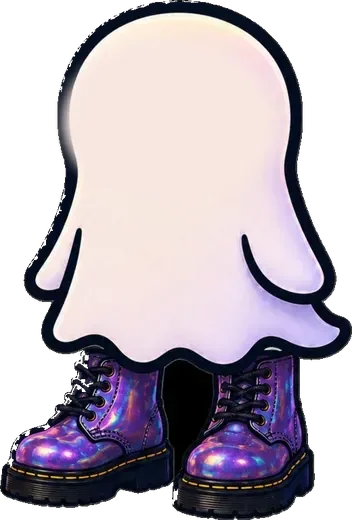
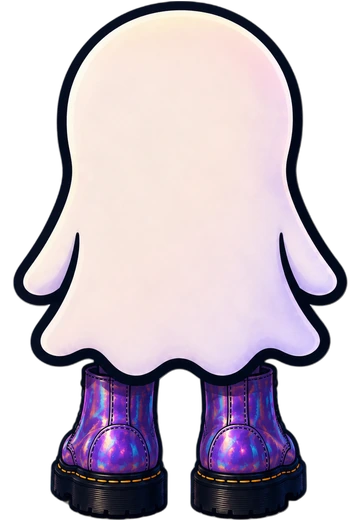
Use hand-drawn back-view art for the turnaround
Replaces the derived/faked heel boots with the real back-facing art
(faceless Moots + true heel Doc Martens, plain + dressed). The "facing
away" view now draws this as a single piece instead of compositing a
faceless body with smudged front boots — the boots actually point away.

- Reframed both back images to 352x520, registered to the front sprites
  by head-top / boot-bottom / centre so there's zero hop when he turns.
- facingBack now blits the whole back image; the layered striding-feet
  path is front-only. Dropped the now-unused back-body + heel-boot
  layers (6 assets) and trimmed layerSet's ready-gate accordingly.

Verified via real rasterization (8 directions + front/back close-ups,
both outfits, feet aligned) and the full render/bgm/escape/annex suite.

Claude-Session: https://claude.ai/code/session_014iGw1K9AYbNnFutYAGK4DG

Changed region(s): [[0.0, 0.0, 1.0, 1.0]]

diff --git a/src/render/sprites.js b/src/render/sprites.js
@@ -16,13 +16,9 @@ export const bossCards = {}; // bossId -> {img, ready}
 // sticker art. Falls back to the whole-sprite above until every layer has loaded.
 function layerSet() {
   return {
-    body: { img: null, ready: false }, back: { img: null, ready: false },
+    body: { img: null, ready: false },
     bootL: { img: null, ready: false }, bootR: { img: null, ready: false },
-    bootLBack: { img: null, ready: false }, bootRBack: { img: null, ready: false }, // heel view
-    get ready() {
-      return this.body.ready && this.back.ready && this.bootL.ready && this.bootR.ready
-        && this.bootLBack.ready && this.bootRBack.ready;
-    },
+    get ready() { return this.body.ready && this.bootL.ready && this.bootR.ready; },
   };
 }
 export const plainLayers = layerSet();
@@ -47,17 +43,11 @@ export function loadSprites() {
   loadInto(mootsDressed, './assets/moots-dressed.webp');
   loadInto(mootsDressedBack, './assets/moots-dressed-back.webp');
   loadInto(plainLayers.body, './assets/moots-body.webp');
-  loadInto(plainLayers.back, './assets/moots-back-body.webp');
   loadInto(plainLayers.bootL, './assets/moots-boot-l.webp');
   loadInto(plainLayers.bootR, './assets/moots-boot-r.webp');
-  loadInto(plainLayers.bootLBack, './assets/moots-boot-l-back.webp');
-  loadInto(plainLayers.bootRBack, './assets/moots-boot-r-back.webp');
   loadInto(dressedLayers.body, './assets/moots-dressed-body.webp');
-  loadInto(dressedLayers.back, './assets/moots-dressed-back-body.webp');
   loadInto(dressedLayers.bootL, './assets/moots-dressed-boot-l.webp');
   loadInto(dressedLayers.bootR, './assets/moots-dressed-boot-r.webp');
-  loadInto(dressedLayers.bootLBack, './assets/moots-dressed-boot-l-back.webp');
-  loadInto(dressedLayers.bootRBack, './assets/moots-dressed-boot-r-back.webp');
   for (const [id, file] of Object.entries({
     falseMoon: 'false-moon-card', warden: 'warden-card', spiggot: 'spiggot-card', archon: 'archon-card',
   })) {
@@ -281,15 +271,17 @@ export function drawPlayerBody(ctx, x, y, face, pal, alpha = 1, ghost = false, s
     if (gunBehind) drawEmitter(ctx, face, pal);
     ctx.save();
     ctx.scale(sx * flip, (1 + 0.035 * Math.sin(spinPhase * 2)) * stretchY / stepSquash);
-    if (useLayers) {
-      // Striding feet: each boot rocks around its ankle in opposite phase, planted (no lift)
-      // so the body's hem always covers the tops. Amplitude grows with speed, zero when idle.
+    if (facingBack && backImg.ready) {
+      // Hand-drawn back art: faceless Moots with true heel boots, one piece (no compositing).
+      ctx.drawImage(backImg.img, -36, -72, 72, 106);
+    } else if (useLayers) {
+      // Front view — striding feet: each boot rocks around its ankle in opposite phase,
+      // planted (no lift) so the body's hem always covers the tops. Grows with speed.
       const rock = (moving ? Math.sin((pose.animT || 0) * 2) : 0) * (0.05 + k * 0.06);
       const piv = dressed ? BOOT_PIV.dressed : BOOT_PIV.plain;
-      // heel art when facing away so the boots turn around with him, not just the body
-      drawBootLayer(ctx, facingBack ? layers.bootLBack.img : layers.bootL.img, piv.L, rock);
-      drawBootLayer(ctx, facingBack ? layers.bootRBack.img : layers.bootR.img, piv.R, -rock);
-      ctx.drawImage(facingBack ? layers.back.img : layers.body.img, -36, -72, 72, 106);
+      drawBootLayer(ctx, layers.bootL.img, piv.L, rock);
+      drawBootLayer(ctx, layers.bootR.img, piv.R, -rock);
+      ctx.drawImage(layers.body.img, -36, -72, 72, 106);
     } else {
       ctx.drawImage(wholeImg, -36, -72, 72, 106);
     }
